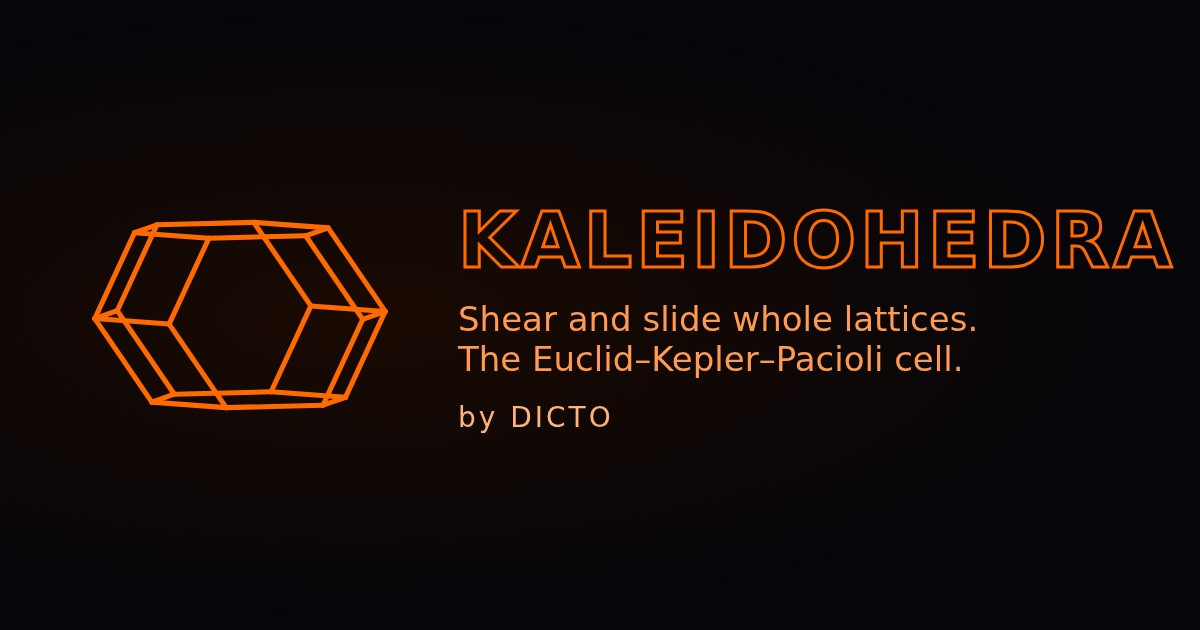
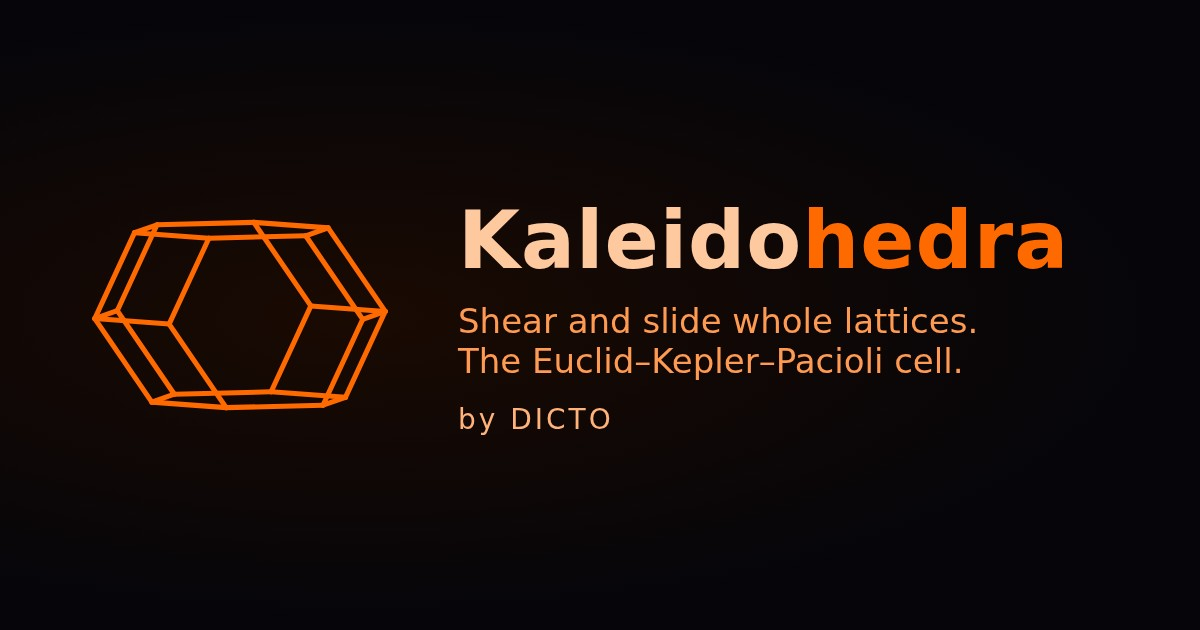
Two-tone name like Polyhedraverse's; no line round ENTER
KALEIDO pale orange, HEDRA the livery orange, solid, in the corner
wordmark, the welcome title and the share image (replacing the outlined
lettering). ENTER keeps its tinted pad but loses its border line.

Changed region(s): [[0.37, 0.3317, 0.9867, 0.4524], [0.37, 0.4825, 0.8017, 0.6032], [0.37, 0.6333, 0.5242, 0.6937]]

diff --git a/index.html b/index.html
@@ -12,7 +12,7 @@
   <meta property="og:description" content="Shear and slide lattices with every piece moving with them, and build the Euclid–Kepler–Pacioli cell: cube, dodecahedron, icosahedron, Kepler's great stellated dodecahedron, octahedron, stella octangula and Pacioli's golden rectangles, all nested in one cell. In your browser, by DICTO." />
   <meta property="og:url" content="https://kaleidohedra.vercel.app/" />
   <meta property="og:image" content="https://kaleidohedra.vercel.app/assets/brand/kaleidohedra-og.jpg" />
-  <meta property="og:image:alt" content="Kaleidohedra by DICTO: an orange wireframe elongated dodecahedron beside the outlined name" />
+  <meta property="og:image:alt" content="Kaleidohedra by DICTO: an orange wireframe elongated dodecahedron beside the two-tone name" />
   <meta property="og:locale" content="en_US" />
   <meta name="twitter:card" content="summary_large_image" />
   <link rel="canonical" href="https://kaleidohedra.vercel.app/" />
@@ -54,9 +54,9 @@
        Rhombic Wheel (wheel.js) or the explicit Lab entry point below. */
     #hud-wordmark {
       position: fixed; top: 14px; left: 16px; z-index: 900;
-      /* Outlined lettering in the livery orange, like the wireframe symbol. */
-      color: transparent; -webkit-text-stroke: 1px #ff6a00; font: 800 16px/1.2 system-ui, sans-serif;
-      letter-spacing: 0.08em; user-select: none;
+      /* Two-tone, like Polyhedraverse's name: KALEIDO pale, HEDRA the livery orange. */
+      color: #ffc9a0; font: 800 15px/1.2 system-ui, sans-serif;
+      letter-spacing: 0.06em; user-select: none;
       pointer-events: none;
     }
     /* Performance guardrail (reframe Stage 6): optional, off by default
@@ -755,13 +755,14 @@
       min-height: 44px; padding: 6px 18px; cursor: pointer;
       font: 900 21px system-ui, sans-serif; letter-spacing: 2px;
       color: transparent; -webkit-text-stroke: 1.2px #ff6a00;
-      background: rgba(20, 8, 2, 0.6); border: 1px solid rgba(255, 106, 0, 0.65); border-radius: 12px;
+      background: rgba(20, 8, 2, 0.6); border: 1px solid transparent; border-radius: 12px;
       animation: enter-breathe 2.1s ease-in-out infinite;
     }
     #static-enter-label:hover, #static-enter-label:focus-visible { background: rgba(20, 8, 2, 0.85); }
     @keyframes enter-breathe { 0%, 100% { opacity: 1; } 50% { opacity: 0.8; } }
     @media (prefers-reduced-motion: reduce) { #static-enter-label { animation: none; } }
-    #welcome-card h1 { margin: 0; font-size: 30px; font-weight: 900; letter-spacing: 0.04em; color: transparent; -webkit-text-stroke: 1.2px #ff6a00; }
+    #welcome-card h1 { margin: 0; font-size: 28px; font-weight: 800; color: #ffc9a0; }
+    #welcome-card h1 span, #hud-wordmark span { color: #ff6a00; }
     #welcome-card .overview { margin: 6px 0 0; font-size: 13px; opacity: 0.85; font-style: italic; }
     #welcome-card .dim-link {
       font: inherit; font-style: normal; font-weight: 600; color: #ff9a52; background: rgba(255, 106, 0, 0.12);
@@ -914,7 +915,7 @@
   <div id="app"></div>
 
   <!-- B1 minimal HUD -->
-  <div id="hud-wordmark">KALEIDOHEDRA</div>
+  <div id="hud-wordmark">KALEIDO<span>HEDRA</span></div>
   <div id="fps-meter"></div>
   <div id="hud-prompt"></div>
   <div id="hud-wheel-cue" title="Tab / Space also opens this" data-i18n="hud.menu">Menu</div>

diff --git a/src/app/welcome.js b/src/app/welcome.js
@@ -107,7 +107,7 @@ function overlayHtml() {
   return `
     <div id="welcome-card">
       <div class="welcome-lang"></div>
-      <h1>Kaleidohedra</h1>
+      <h1>Kaleido<span>hedra</span></h1>
       <p class="overview">${overviewHtml(lang)}</p>
       <button type="button" class="how-to-link" id="welcome-how-to" data-i18n-html="welcome.howTo">${t('welcome.howTo', lang)}</button>
       <div class="rhombiverse-link">
